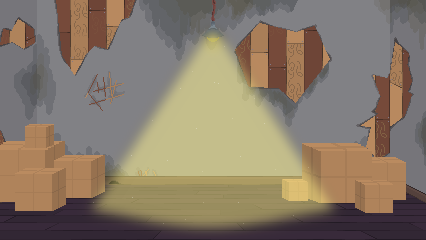
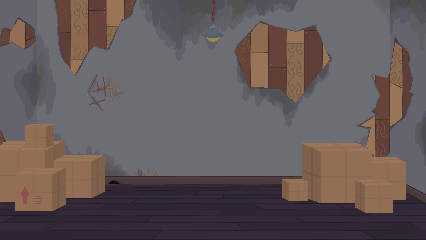
mudança de arts e fade de telas

diff --git a/EverythingLeftBehind/src/scripts/salas.js b/EverythingLeftBehind/src/scripts/salas.js
@@ -133,31 +133,50 @@ function setupInventory() {
 
 // Atualiza a tela atual
 function updateScreen() {
-    document.querySelectorAll('.object-hitbox').forEach(hitbox => {
-        hitbox.remove();
-    });
+    const rooms = document.querySelectorAll('.room');
+    const nextRoom = document.getElementById(`room${currentScreen}`);
+    const activeRoom = document.querySelector('.room.active');
 
-    document.querySelectorAll('.room').forEach(room => {
-        room.classList.remove('active');
-    });
-    document.getElementById(`room${currentScreen}`).classList.add('active');
+    // Função para carregar os hitboxes após a troca de tela
+    const loadHitboxes = () => {
+        // Remove hitboxes antigos
+        document.querySelectorAll('.object-hitbox').forEach(hitbox => {
+            hitbox.remove();
+        });
 
-    // Adiciona hitboxes da nova sala
-    const currentRoom = screens[currentScreen];
-    
-    // Hitboxes normais (resetam ao reentrar)
-    currentRoom.hitboxes.forEach(hitbox => {
-        if (hitbox.dataset.collected !== "true") {
+        // Adiciona hitboxes da nova sala
+        const currentRoom = screens[currentScreen];
+
+        // Hitboxes normais (resetam ao reentrar)
+        currentRoom.hitboxes.forEach(hitbox => {
+            if (hitbox.dataset.collected !== "true") {
+                document.querySelector('.scene-container').appendChild(hitbox);
+            }
+        });
+
+        // Hitboxes persistentes (mantêm estado)
+        currentRoom.persistentHitboxes.forEach(hitbox => {
             document.querySelector('.scene-container').appendChild(hitbox);
-        }
-    });
-    
-    // Hitboxes persistentes (mantêm estado)
-    currentRoom.persistentHitboxes.forEach(hitbox => {
-        document.querySelector('.scene-container').appendChild(hitbox);
-    });
+        });
 
-    positionElements();
+        positionElements();
+    };
+
+    if (activeRoom) {
+        activeRoom.classList.remove('fade-in');
+        activeRoom.classList.add('fade-out');
+
+        // Espera o fade-out terminar antes de trocar
+        setTimeout(() => {
+            rooms.forEach(room => room.classList.remove('active', 'fade-in', 'fade-out'));
+            nextRoom.classList.add('active', 'fade-in');
+            loadHitboxes();
+        }, 200); // tempo igual ao da animação
+    } else {
+        // Primeira vez: só mostra
+        nextRoom.classList.add('active', 'fade-in');
+        loadHitboxes();
+    }
 }
 
 // Controles de navegação

diff --git a/EverythingLeftBehind/src/styles/style.css b/EverythingLeftBehind/src/styles/style.css
@@ -181,6 +181,24 @@ body {
     opacity: 0;
 }
 
+.fade-out {
+    animation: fadeOut 0.2s forwards;
+}
+
+.fade-in {
+    animation: fadeIn 0.3s forwards;
+}
+
+@keyframes fadeOut {
+    from { opacity: 1; }
+    to { opacity: 0; }
+}
+
+@keyframes fadeIn {
+    from { opacity: 0; }
+    to { opacity: 1; }
+}
+
 .active {
     display: block;
 }
